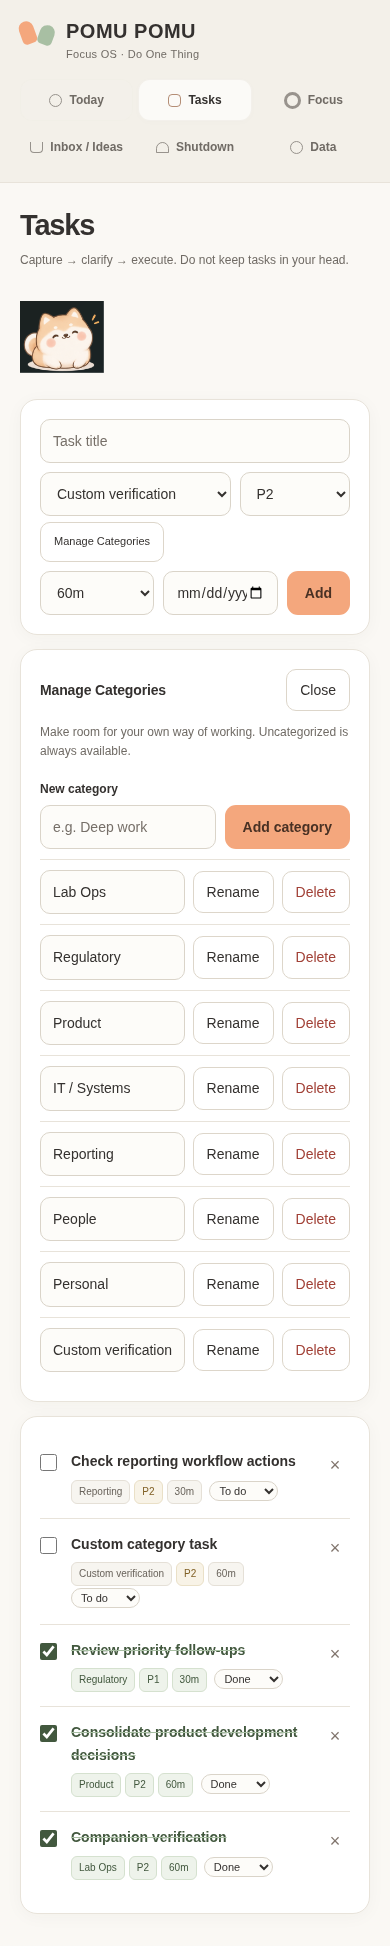
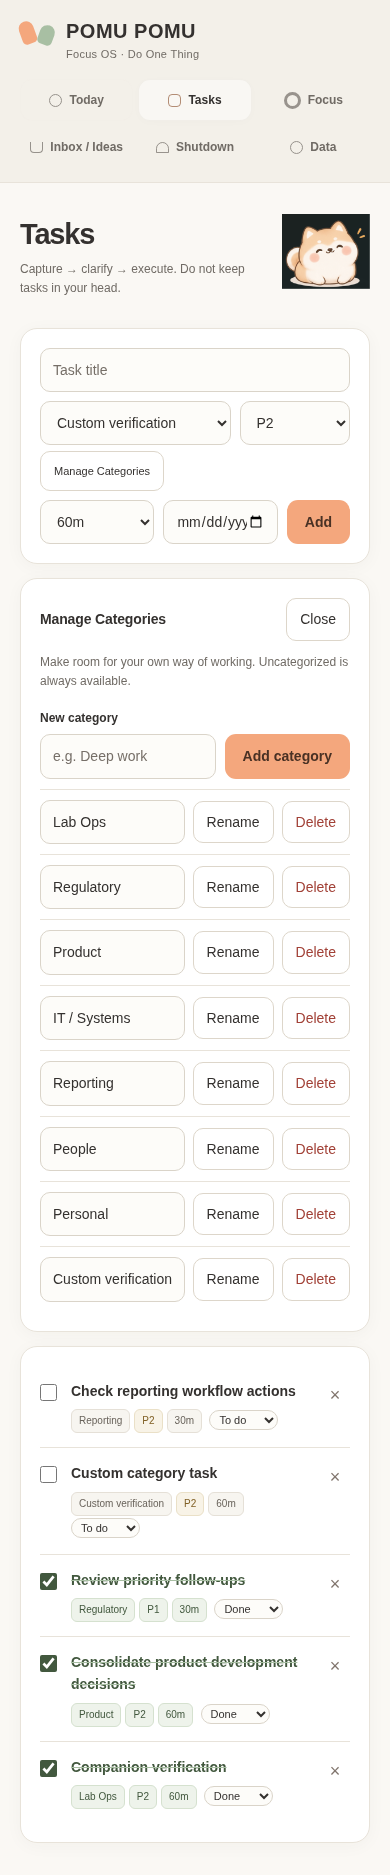
Refine Pomu welcome placement, sizing, and finite reactions

diff --git a/index.html b/index.html
@@ -145,31 +145,55 @@ textarea{width:100%;min-height:112px;resize:vertical;margin-bottom:12px}
 @media(max-width:380px){.category-row{gap:5px}.category-row button.ghost{padding:9px 8px;font-size:12px}}
 
 /* V1.4: finite, event-driven companion reactions; no floating overlays. */
-.pomu{display:flex;align-items:center;gap:12px;min-height:76px;margin:0 0 16px;pointer-events:none}
-.pomu img{width:64px;height:64px;object-fit:contain;flex:none}
-.pomu-speech{font-size:12px;color:var(--muted);max-width:190px;overflow-wrap:anywhere}
+.pomu{--pomu-size:80px;--pomu-lift:-4px;--pomu-tilt:3deg;position:relative;display:flex;align-items:center;gap:12px;min-height:var(--pomu-size);margin:0 0 12px;pointer-events:none;flex:none;max-width:100%}
+.pomu img{width:var(--pomu-size);height:var(--pomu-size);object-fit:contain;flex:none}
+.pomu-speech{font-size:12px;color:var(--muted);max-width:170px;min-width:0;overflow-wrap:anywhere}
 .pomu-speech:empty{display:none}
+body[data-appearance="cozy"] .pomu{--pomu-size:112px;--pomu-lift:-8px;--pomu-tilt:5deg}
 body[data-appearance="cozy"] .pomu-speech:not(:empty){background:var(--panel);border:1px solid var(--line);border-radius:12px;padding:7px 10px}
-body[data-appearance="cozy"] .pomu{min-height:92px}
-body[data-appearance="cozy"] .pomu img{width:84px;height:84px}
 body[data-appearance="professional"] .pomu-speech{display:none}
-.pomu[data-reaction] img{animation:pomu-nod 1.5s ease both}
-.pomu[data-reaction="entrance"] img{animation-name:pomu-entrance}
+.today-welcome{display:flex;align-items:center;gap:22px;min-width:0}
+.welcome-copy{min-width:0}
+.today-welcome .pomu{margin:0}
+/* The welcome keeps one footprint; a reaction cannot move the priority cards. */
+.today-welcome .pomu-speech{position:absolute;left:calc(100% + 12px);width:150px}
+.pomu[data-reaction] img{animation:pomu-nod .9s ease both}
+.pomu[data-reaction="entrance"] img,.pomu[data-reaction="start"] img,.pomu[data-reaction="shutdown"] img{animation-name:pomu-entrance}
 .pomu[data-reaction="create"] img{animation-name:pomu-bounce}
-.pomu[data-reaction="celebrate"] img{animation-name:pomu-celebrate}
-body[data-appearance="cozy"] .pomu[data-reaction] img{animation-timing-function:ease-in-out}
+.pomu[data-reaction="pause"] img{animation-name:pomu-tilt}
+.pomu[data-reaction="celebrate"] img{animation:pomu-celebrate 1.2s ease both}
+/* Two tiny CSS glints appear only for a Cozy celebration. */
+body[data-appearance="cozy"] .pomu[data-reaction="celebrate"]::before,
+body[data-appearance="cozy"] .pomu[data-reaction="celebrate"]::after{content:"";position:absolute;top:15%;left:4px;width:7px;height:7px;background:var(--accent);clip-path:polygon(50% 0,62% 38%,100% 50%,62% 62%,50% 100%,38% 62%,0 50%,38% 38%);animation:pomu-glint 1.2s ease both}
+body[data-appearance="cozy"] .pomu[data-reaction="celebrate"]::after{left:calc(var(--pomu-size) - 7px);top:5%;width:5px;height:5px;background:var(--good)}
 .timer-companion{display:flex;align-items:center;gap:22px;flex-wrap:wrap}
 .timer-companion .pomu{margin:12px 0}
 .overlay-companion{margin:0;justify-content:center}
 .appearance-setting{margin-bottom:18px}
 .appearance-setting label{display:block;font-weight:600;margin-bottom:8px}
-@keyframes pomu-entrance{from{opacity:0;transform:translateY(5px)}to{opacity:1;transform:none}}
+@keyframes pomu-entrance{from{opacity:.45;transform:translateY(3px)}to{opacity:1;transform:none}}
 @keyframes pomu-nod{0%,100%{transform:none}40%{transform:translateY(2px)}}
-@keyframes pomu-bounce{0%,45%,100%{transform:none}22%{transform:translateY(-4px)}}
-@keyframes pomu-celebrate{0%,70%,100%{transform:none}25%{transform:translateY(-4px) rotate(-3deg)}48%{transform:rotate(3deg)}}
-body[data-appearance="cozy"] .pomu[data-reaction="celebrate"] img{animation-name:pomu-cozy-celebrate}
-@keyframes pomu-cozy-celebrate{0%,75%,100%{transform:none}25%{transform:translateY(-7px) rotate(-5deg)}50%{transform:translateY(-2px) rotate(5deg)}}
-@media(prefers-reduced-motion:reduce){.pomu[data-reaction] img{animation:none !important}}
+@keyframes pomu-tilt{0%,100%{transform:none}40%{transform:rotate(var(--pomu-tilt))}}
+@keyframes pomu-bounce{0%,55%,100%{transform:none}28%{transform:translateY(var(--pomu-lift))}}
+@keyframes pomu-celebrate{0%,80%,100%{transform:none}20%{transform:scale(1.02,.98)}42%{transform:translateY(var(--pomu-lift)) rotate(calc(-1 * var(--pomu-tilt)))}65%{transform:scale(1.02,.98)}}
+@keyframes pomu-glint{0%,100%{opacity:0;transform:scale(.6)}35%{opacity:.8;transform:translateY(-4px) scale(1)}70%{opacity:0;transform:translateY(-7px) scale(.7)}}
+@media(max-width:1100px){.topbar .pomu-speech{display:none}}
+@media(max-width:760px){
+ .pomu{--pomu-size:64px;gap:9px}
+ body[data-appearance="cozy"] .pomu{--pomu-size:88px}
+ #today .topbar{display:grid;grid-template-columns:minmax(0,1fr) auto;gap:8px 14px;align-items:center}
+ .today-welcome{display:contents}
+ .welcome-copy{grid-column:1;grid-row:1 / span 2;align-self:center}
+ .today-welcome .pomu{grid-column:2;grid-row:1;justify-self:center}
+ #today .topbar > button{grid-column:2;grid-row:2;padding:8px 12px;font-size:12px;min-height:38px}
+ #today .eyebrow{font-size:9px;letter-spacing:.1em}
+}
+@media(max-width:380px){
+ .pomu{--pomu-size:56px}
+ body[data-appearance="cozy"] .pomu{--pomu-size:72px}
+ #today .topbar{gap:7px 10px}
+}
+@media(prefers-reduced-motion:reduce){.pomu[data-reaction] img,.pomu[data-reaction]::before,.pomu[data-reaction]::after{animation:none !important}.pomu[data-reaction]::before,.pomu[data-reaction]::after{display:none}}
 </style>
 </head>
 <body>
@@ -188,8 +212,13 @@ body[data-appearance="cozy"] .pomu[data-reaction="celebrate"] img{animation-name
   </aside>
   <main class="main">
     <section id="today" class="section active">
-      <div class="topbar"><div><div class="eyebrow">A fresh page, a little focus</div><h1>Today</h1><div class="sub" id="todayDate"></div></div><button class="primary" onclick="go('focus')">Start Focus</button></div>
-      <div class="pomu" data-pomu="today" data-rest="idle"><img src="assets/pomu/pomu_idle.png" alt="Pomu, your idle companion" width="72" height="72"><span class="pomu-speech"></span></div>
+      <div class="topbar">
+        <div class="today-welcome">
+          <div class="welcome-copy"><div class="eyebrow">A fresh page, a little focus</div><h1>Today</h1><div class="sub" id="todayDate"></div></div>
+          <div class="pomu" data-pomu="today" data-rest="idle"><img src="assets/pomu/pomu_idle.png" alt="Pomu, your idle companion" width="80" height="80"><span class="pomu-speech"></span></div>
+        </div>
+        <button class="primary" onclick="go('focus')">Start Focus</button>
+      </div>
       <div class="grid daily-priorities">
         <div class="card now-card"><h3>Now</h3><div class="card-caption">Just one thing. You have room to focus.</div><div id="nowTask"></div></div>
         <div class="card next-card"><h3>Next</h3><div class="card-caption">A little queue. Up to three things for later.</div><div id="nextTasks"></div></div>
@@ -204,8 +233,9 @@ body[data-appearance="cozy"] .pomu[data-reaction="celebrate"] img{animation-name
     </section>
 
     <section id="tasks" class="section">
-      <div class="topbar"><div><h1>Tasks</h1><div class="sub">Capture → clarify → execute. Do not keep tasks in your head.</div></div></div>
-      <div class="pomu" data-pomu="tasks" data-rest="idle"><img src="assets/pomu/pomu_idle.png" alt="Pomu, your idle companion" width="72" height="72"><span class="pomu-speech"></span></div>
+      <div class="topbar"><div><h1>Tasks</h1><div class="sub">Capture → clarify → execute. Do not keep tasks in your head.</div></div>
+        <div class="pomu" data-pomu="tasks" data-rest="idle"><img src="assets/pomu/pomu_idle.png" alt="Pomu, your idle companion" width="80" height="80"><span class="pomu-speech"></span></div>
+      </div>
       <div class="card">
         <div class="row task-create-row">
           <input id="taskTitle" aria-label="Task title" placeholder="Task title" style="flex:2;min-width:220px">
@@ -346,13 +376,13 @@ function reactPomu(state,reaction,message=""){
   const speak=document.body.dataset.appearance==="cozy" && message && Date.now()-pomuLastSpeech>15000;
   let spoken=false;
   document.querySelectorAll("[data-pomu]").forEach(el=>{
-    if(!el.getClientRects().length)return;
+    if(!el.getClientRects().length || (document.getElementById("focusOverlay").classList.contains("active") && el.dataset.pomu!=="overlay"))return;
     const img=el.querySelector("img");img.src=`assets/pomu/pomu_${state}.png`;img.alt=`Pomu, your ${state} companion`;
     void img.offsetWidth;el.dataset.reaction=reaction;
     if(speak){el.querySelector(".pomu-speech").textContent=message;spoken=true}
   });
   if(spoken)pomuLastSpeech=Date.now();
-  pomuReactionTimer=setTimeout(restPomu,1600);
+  pomuReactionTimer=setTimeout(restPomu,1300);
 }
 function initPomu(){
   let mode="professional";try{mode=localStorage.getItem(POMU_APPEARANCE_KEY)}catch{}
@@ -480,7 +510,7 @@ normalizeCategories(db);
 let seconds=1500, timerHandle=null, activeTaskId=null;
 
 function save(){localStorage.setItem("kikiFocusOS",JSON.stringify(db));renderAll()}
-function go(page){document.querySelectorAll(".section").forEach(x=>x.classList.remove("active"));document.querySelectorAll("#nav button").forEach(x=>x.classList.remove("active"));document.getElementById(page).classList.add("active");document.querySelector(`#nav button[data-page="${page}"]`)?.classList.add("active");renderAll();clearTimeout(pomuReactionTimer);restPomu()}
+function go(page){document.querySelectorAll(".section").forEach(x=>x.classList.remove("active"));document.querySelectorAll("#nav button").forEach(x=>x.classList.remove("active"));document.getElementById(page).classList.add("active");document.querySelector(`#nav button[data-page="${page}"]`)?.classList.add("active");renderAll();clearTimeout(pomuReactionTimer);restPomu();if(page==="shutdown")reactPomu("sleepy","shutdown")}
 document.getElementById("nav").addEventListener("click",e=>{if(e.target.dataset.page)go(e.target.dataset.page)})
 
 function addTask(titleOverride, projectOverride){

diff --git a/docs/v1.4/VERIFICATION.md b/docs/v1.4/VERIFICATION.md
@@ -1,12 +1,30 @@
-# V1.4 — Interactive Pomu Companion
+# V1.4 — Companion UI refinement
 
-Professional is the default (64px artwork, finite action reactions). Data → Pomu appearance switches to Cozy (84px, expressive celebration, short speech bubbles with a 15-second cooldown). The new `pomuAppearance` localStorage key is separate from `kikiFocusOS`; task/category data and JSON backup format are unchanged.
+The existing companion events and appearance preference are retained. Today now places Pomu beside the greeting in a compact welcome area; Tasks also shares its heading row with Pomu. NOW/NEXT no longer sit below a separate companion row. The ivory, peach, sage, and text colours are unchanged.
 
-Today and Tasks rest on idle; Focus and the immersive timer rest on focused; Shutdown rests on sleepy. Reactions last 1.6 seconds, then restore the relevant resting image. Navigation cancels temporary reactions. CSS animations run once and are disabled under prefers-reduced-motion. No dependencies, sound, notification, or replacement illustrations were added. Removed the existing timer completion vibration. Initial rendering now waits for DOMContentLoaded so timer overlay controls exist at startup.
+| Appearance | Desktop | Mobile ≤760px | Narrow mobile ≤380px |
+| --- | --- | --- | --- |
+| Professional (default) | 80px | 64px | 56px |
+| Cozy | 112px | 88px | 72px |
 
-## Release issue: supplied artwork has dark backgrounds
+These are image element widths; object-fit preserves the supplied proportions. The mobile welcome puts the greeting beside Pomu and the focus button, without overlap. Welcome speech is suppressed at widths ≤1100px to keep controls clear. Cozy messages remain available where space permits, with the existing 15-second cooldown.
 
-All four original PNG byte streams are preserved exactly under `assets/pomu/`. They are RGBA but are **not transparent cutouts**: no pixel has alpha 0, and over 98% of pixels in each image are fully opaque. Their dark rectangular backgrounds remain visible in the light UI. No background removal, masking, blending, or replacement artwork was applied. Obtain approved transparent exports before release.
+## Reactions
+
+- Task creation: happy bounce, 0.9 seconds.
+- Completion: happy jump, 1.2 seconds; Cozy adds two small peach/sage CSS glints and a slightly larger jump.
+- Start focus: focused image with a gentle 0.9-second entrance.
+- Pause: idle image with a brief tilt, then focused resting image.
+- Complete focus: short happy celebration, then focused resting image.
+- Enter Shutdown: sleepy image with a gentle 0.9-second entrance; sleepy remains the resting state.
+
+Temporary reactions reset after 1.3 seconds. Rerenders do not touch companion animation state; only actions trigger reactions. While the immersive overlay is open, only its companion reacts. Professional has smaller movement and no speech or extra glints. Reduced motion disables all companion animations and glints. No loops, sounds, notifications, frameworks, or runtime dependencies were added.
+
+## Unresolved release blocker: transparency
+
+**Background removal is not complete.** All four original PNGs have dark backgrounds and no fully transparent pixels. An automated removal attempt returned a combined, upscaled image with visible edge artifacts and changed details; it was rejected rather than replacing Pomu with altered illustrations. None of that output is used in this branch.
+
+The original assets remain byte-for-byte intact in `assets/pomu/`, including faces, outlines, sparkles, laptop, sleeping symbols, soft shading, and proportions. Consequently dark rectangles remain visible on ivory and white. The clean transparent-edge/no-dark-box requirements cannot be marked passed. Approved transparent source exports or a carefully retouched cutout of the original artwork are still needed before release. CSS masking/blending is not used to conceal this issue.
 
 | Asset | Dimensions | Alpha range | Fully transparent pixels |
 | --- | --- | --- | --- |
@@ -15,69 +33,39 @@ All four original PNG byte streams are preserved exactly under `assets/pomu/`. T
 | pomu_focus.png | 159 × 112 | 170–255 | 0 |
 | pomu_sleepy.png | 137 × 133 | 128–255 | 0 |
 
+[Original asset inspection on ivory and white](screenshots/asset-inspection.png). This is evidence of the remaining blocker, not a successful transparency check.
+
 ## Verification
 
-Automated Chromium checks via Playwright against a local HTTP server; no browser JavaScript errors. Browser tooling was used only for verification, not added to the app. Completion was exercised by setting the timer's in-memory remaining seconds to 1, then waiting for its real interval callback (a full 25-minute wall-clock session was not run). Screenshots contain disposable verification data.
+118 browser assertions passed in Chromium through Playwright against a local HTTP server. No JavaScript errors. These checks do not include a transparency pass.
 
-- Passed: Default professional mode
-- Passed: Image loads: idle
-- Passed: Image loads: happy
-- Passed: Image loads: focus
-- Passed: Image loads: sleepy
-- Passed: Task creation happy reaction
-- Passed: Temporary reaction returns to idle
-- Passed: Task completion celebration
-- Passed: Status completion celebration
-- Passed: Appearance leaves task storage unchanged
-- Passed: Cozy survives refresh
-- Passed: Custom category creation
-- Passed: Task retains custom category
-- Passed: Focus start reaction
-- Passed: Timer counts down
-- Passed: Pause stops timer
-- Passed: Focus pause reaction
-- Passed: Pause returns to focus resting image
-- Passed: Focus completion happy reaction and logged minutes
-- Passed: Focus completion returns to resting state
-- Passed: Shutdown sleepy Pomu
-- Passed: Shutdown anchor saved
-- Passed: JSON roundtrip retains custom tasks/categories
-- Passed: Reduced motion disables companion animation
-- Passed: Reduced motion keeps orb still
-- Passed: No horizontal overflow: 1440px today
-- Passed: No horizontal overflow: 1440px tasks
-- Passed: No horizontal overflow: 1440px focus
-- Passed: No horizontal overflow: 1440px shutdown
-- Passed: No horizontal overflow: 1440px settings
-- Passed: Focus overlay fits: 1440px
-- Passed: No horizontal overflow: 390px today
-- Passed: No horizontal overflow: 390px tasks
-- Passed: No horizontal overflow: 390px focus
-- Passed: No horizontal overflow: 390px shutdown
-- Passed: No horizontal overflow: 390px settings
-- Passed: Focus overlay fits: 390px
-- Passed: No horizontal overflow: 320px today
-- Passed: No horizontal overflow: 320px tasks
-- Passed: No horizontal overflow: 320px focus
-- Passed: No horizontal overflow: 320px shutdown
-- Passed: No horizontal overflow: 320px settings
-- Passed: Focus overlay fits: 320px
-- Passed: No browser JavaScript errors
+- Desktop Professional/Cozy: measured 80/112px, compact welcome, no overlap with greeting or focus button.
+- Mobile Professional/Cozy: measured 64/88px at 390px, compact welcome, no overlap.
+- Layouts and immersive timer fit 1440, 1024, 768, 390, and 320px widths without horizontal scrolling.
+- Active reactions and speech fit both modes at those five widths.
+- Images load; create/complete/status-complete reactions and resting-state restoration work.
+- Ordinary renderAll preserves the running CSS animation object rather than restarting it.
+- Focus countdown, pause, session completion/logging, task completion, and return to Today work.
+- Shutdown sleepy transition and saving tomorrow's anchor work.
+- Appearance selection survives refresh and does not change task storage.
+- Custom category creation, rename, deletion with reassignment, and task retention work.
+- JSON export/import preserves custom task/category data and excludes appearance preference.
+- Reduced motion disables companion movement and CSS sparkles; existing orb remains still.
 
-- Passed: Cozy speech bubble
-- Passed: Switch back to Professional
-- Passed: Complete focus task returns to Today with celebration
+Session completion was exercised by setting in-memory seconds to 1 and waiting for the real timer callback, rather than waiting a full 25 minutes. Browser verification tools were not added as app dependencies. Screenshots of the four modes use the default task data; workflow screenshots may contain disposable verification tasks.
 
-## Screenshots
+## Updated screenshots
 
-- [Desktop Today — Professional](screenshots/desktop-today.png)
-- [Desktop focus — Cozy](screenshots/desktop-focus-cozy.png)
-- [Desktop shutdown](screenshots/desktop-shutdown.png)
-- [Mobile Today — Cozy](screenshots/mobile-today.png)
-- [Mobile Focus](screenshots/mobile-focus.png)
-- [Mobile immersive timer](screenshots/mobile-focus-overlay.png)
-- [Mobile Tasks](screenshots/mobile-tasks.png)
-- [Mobile Shutdown](screenshots/mobile-shutdown.png)
-- [Mobile appearance selector](screenshots/mobile-settings.png)
+| Desktop | Mobile |
+| --- | --- |
+| [Professional](screenshots/desktop-professional.png) | [Professional](screenshots/mobile-professional.png) |
+| [Cozy](screenshots/desktop-cozy.png) | [Cozy](screenshots/mobile-cozy.png) |
 
-Rollback: revert this change; existing task storage and backups need no migration. The independent appearance key can remain harmlessly in localStorage.
+- [Cozy immersive focus](screenshots/desktop-focus-cozy.png)
+- [Mobile immersive focus](screenshots/mobile-focus-overlay.png)
+- [Shutdown](screenshots/desktop-shutdown.png)
+- [Appearance selector](screenshots/mobile-settings.png)
+
+## Data and rollback
+
+The existing `kikiFocusOS` structure, `pomuAppearance` preference key, task/category code, JSON backup format, and timer accounting remain unchanged by this refinement. No migration is needed. Revert this refinement commit to restore the earlier placement and animation styling.
